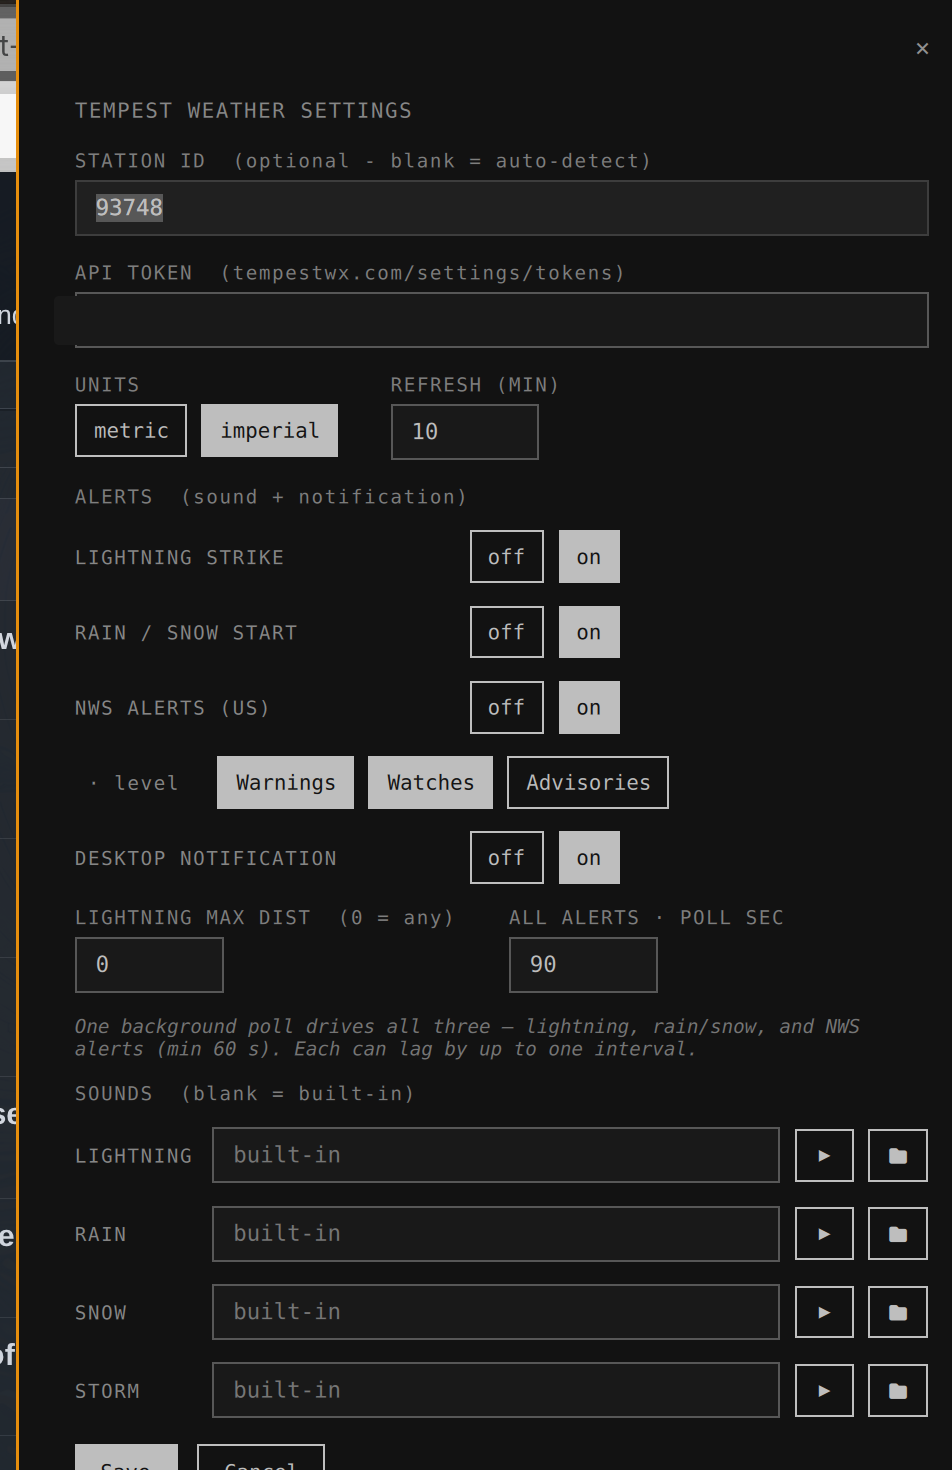
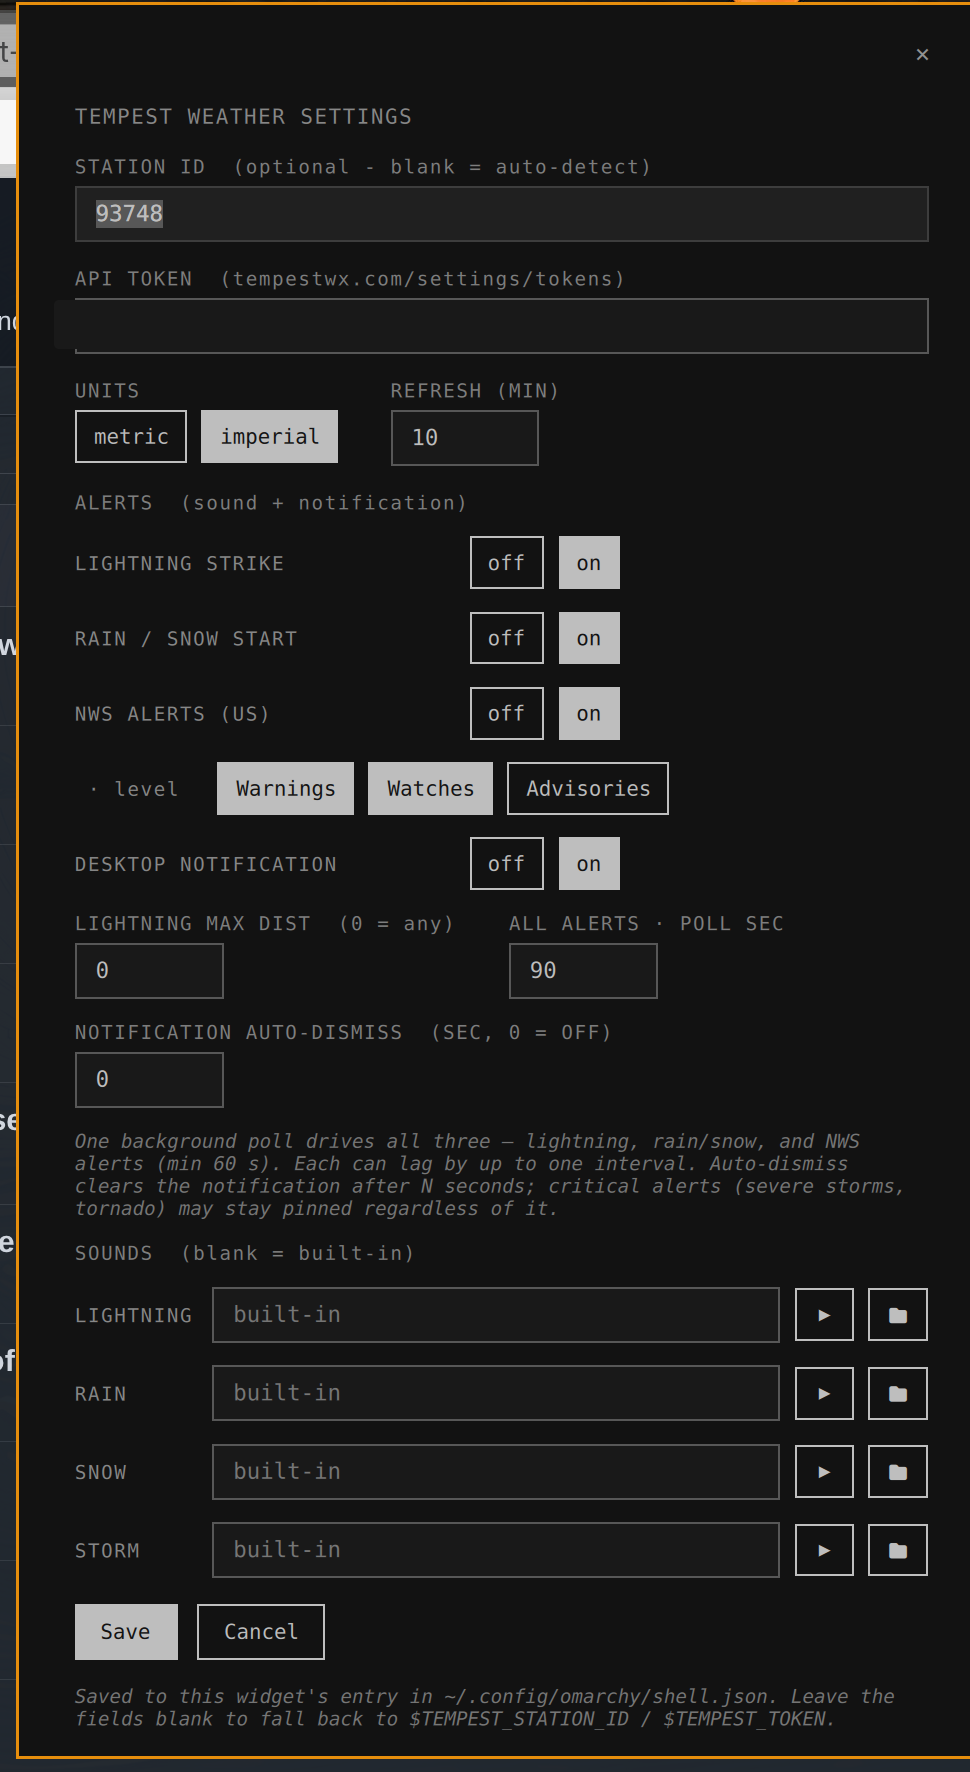
Alerts: add alertNotifyTimeout (auto-dismiss the notification)
New alertNotifyTimeout (seconds, 0 = notification-daemon default). When > 0,
notify() passes `-t <seconds*1000>` to omarchy-notification-send. Settings
form gains a "NOTIFICATION AUTO-DISMISS (SEC, 0 = OFF)" field under the poll
interval, dimmed when notifications are off.

Verified live: a `-u normal` notification with `-t 3000` cleared after ~3s; a
`-u critical` one (how lightning and severe NWS alerts fire) stayed pinned —
mako/swaync ignore expire timeouts for critical. Documented that caveat in the
form helper text, README, and the manifest schema label.

settings.png regenerated to the full card.

Claude-Session: https://claude.ai/code/session_01YGwtqj7er61H2QfdAnwE9A

diff --git a/Panel.qml b/Panel.qml
@@ -289,6 +289,7 @@ Panel {
   property string draftAlertPrecip: "off"
   property string draftAlertNotify: "on"
   property string draftAlertPoll: "90"
+  property string draftNotifyTimeout: "0"
   property string draftLightningSound: ""
   property string draftPrecipSound: ""
   property string draftSnowSound: ""
@@ -411,6 +412,7 @@ Panel {
     draftAlertPrecip = onOffSetting("alertPrecipStart", "off")
     draftAlertNotify = onOffSetting("alertNotify", "on")
     draftAlertPoll = String(setting("alertPollSeconds", "90") || "90")
+    draftNotifyTimeout = String(setting("alertNotifyTimeout", "0") || "0")
     draftLightningSound = String(setting("alertLightningSound", "") || "")
     draftPrecipSound = String(setting("alertPrecipSound", "") || "")
     draftSnowSound = String(setting("alertSnowSound", "") || "")
@@ -444,6 +446,8 @@ Panel {
     if (isNaN(maxDist) || maxDist < 0) maxDist = 0
     var poll = parseInt(draftAlertPoll, 10)
     if (isNaN(poll) || poll < 60) poll = 60
+    var notifyTimeout = parseInt(draftNotifyTimeout, 10)
+    if (isNaN(notifyTimeout) || notifyTimeout < 0) notifyTimeout = 0
     settingsSaveQueue = [
       ["stationId", draftStation.replace(/^\s+|\s+$/g, "")],
       ["token", draftToken.replace(/^\s+|\s+$/g, "")],
@@ -453,6 +457,7 @@ Panel {
       ["alertLightningMaxDistance", String(maxDist)],
       ["alertPrecipStart", draftAlertPrecip === "on" ? "on" : "off"],
       ["alertNotify", draftAlertNotify === "on" ? "on" : "off"],
+      ["alertNotifyTimeout", String(notifyTimeout)],
       ["alertPollSeconds", String(poll)],
       ["alertLightningSound", draftLightningSound.replace(/^\s+|\s+$/g, "")],
       ["alertPrecipSound", draftPrecipSound.replace(/^\s+|\s+$/g, "")],
@@ -1434,11 +1439,39 @@ Panel {
                 }
               }
 
+              Column {
+                spacing: Style.space(4)
+                opacity: root.draftAlertNotify === "on" ? 1 : 0.4
+                Text {
+                  text: "NOTIFICATION AUTO-DISMISS  (SEC, 0 = OFF)"
+                  color: root.bar ? Qt.darker(root.bar.foreground, 1.5) : "gray"
+                  font.family: root.bar ? root.bar.fontFamily : "monospace"
+                  font.pixelSize: Style.font.caption
+                  font.letterSpacing: 1
+                }
+                TextField {
+                  width: Style.space(80)
+                  enabled: !root.savingSettings && root.draftAlertNotify === "on"
+                  text: root.draftNotifyTimeout
+                  foreground: root.bar ? root.bar.foreground : "white"
+                  font.family: root.bar ? root.bar.fontFamily : "monospace"
+                  inputMethodHints: Qt.ImhDigitsOnly
+                  validator: IntValidator { bottom: 0; top: 86400 }
+                  onTextChanged: root.draftNotifyTimeout = text
+                  Keys.onPressed: function(event) {
+                    if (event.key === Qt.Key_Escape) { root.cancelEditingSettings(); event.accepted = true }
+                    else if (event.key === Qt.Key_Return || event.key === Qt.Key_Enter) { root.saveSettings(); event.accepted = true }
+                  }
+                }
+              }
+
               Text {
                 width: parent.width
                 wrapMode: Text.WordWrap
                 text: "One background poll drives all three — lightning, rain/snow, and NWS "
-                  + "alerts (min 60 s). Each can lag by up to one interval."
+                  + "alerts (min 60 s). Each can lag by up to one interval. Auto-dismiss "
+                  + "clears the notification after N seconds; critical alerts (severe "
+                  + "storms, tornado) may stay pinned regardless of it."
                 color: root.bar ? Qt.darker(root.bar.foreground, 1.6) : "gray"
                 font.family: root.bar ? root.bar.fontFamily : "monospace"
                 font.pixelSize: Style.font.caption

diff --git a/AlertService.qml b/AlertService.qml
@@ -77,6 +77,10 @@ Item {
   readonly property real alertLightningMaxDistance: parseFloat(String(cval("alertLightningMaxDistance", "0"))) || 0
   readonly property bool alertPrecipStart: String(cval("alertPrecipStart", "off")).toLowerCase() === "on"
   readonly property bool alertNotify: String(cval("alertNotify", "on")).toLowerCase() === "on"
+  // Seconds after which the notification self-dismisses; 0 = daemon default.
+  // Note: mako/swaync keep "critical" notifications sticky regardless, so this
+  // only reliably affects the lower-urgency (rain/watch/advisory) alerts.
+  readonly property int notifyTimeoutSec: Math.max(0, parseInt(String(cval("alertNotifyTimeout", "0")), 10) || 0)
   readonly property int pollSeconds: Math.max(60, parseInt(String(cval("alertPollSeconds", "90")), 10) || 90)
   readonly property string lightningSound: String(cval("alertLightningSound", "")).replace(/^\s+|\s+$/g, "")
   readonly property string precipSound: String(cval("alertPrecipSound", "")).replace(/^\s+|\s+$/g, "")
@@ -335,6 +339,7 @@ Item {
     if (!root.alertNotify) return
     var cmd = ["omarchy-notification-send", "-u", String(urgency || "normal")]
     if (glyph && glyph !== "") { cmd.push("-g"); cmd.push(String(glyph)) }
+    if (root.notifyTimeoutSec > 0) { cmd.push("-t"); cmd.push(String(root.notifyTimeoutSec * 1000)) }
     cmd.push(String(headline))
     if (body && body !== "") cmd.push(String(body))
     notifyQueue.push(cmd)

diff --git a/README.md b/README.md
@@ -155,10 +155,12 @@ sounds.
 
 All alerts are **off by default**. Turn them on in the settings form (the gear
 in the popup) — the ALERTS section has on/off switches for each, a lightning
-max-distance, a notification switch, the poll interval, and a SOUNDS block with
-a file-path field and a **test** button per alert type. Because alerts come
-from a poll, they lag by up to one interval (default 90 s, minimum 60 s); they
-are a heads-up, not a life-safety warning.
+max-distance, the NWS level, the poll interval, a notification switch with an
+optional auto-dismiss (`alertNotifyTimeout` seconds; 0 = your notification
+daemon's default — note mako/swaync keep *critical* alerts pinned regardless),
+and a SOUNDS block with a file-path field and a **test** button per alert type.
+Because alerts come from a poll, they lag by up to one interval (default 90 s,
+minimum 60 s); they are a heads-up, not a life-safety warning.
 
 The bar pill flags a live alert even with the popup closed: a warning triangle
 while an NWS alert is active, a lightning-bolt for 20 minutes after a strike.

diff --git a/CHANGELOG.md b/CHANGELOG.md
@@ -8,8 +8,9 @@
   (`pw-play`) and, by default, raises a desktop notification.
 - All alerts are off by default. New settings: `alertLightning`,
   `alertLightningMaxDistance`, `alertPrecipStart`, `alertNotify`,
-  `alertPollSeconds`, `alertLightningSound` / `alertPrecipSound` /
-  `alertSnowSound`. The settings form gains an ALERTS section: on/off switches,
+  `alertNotifyTimeout` (auto-dismiss the notification after N seconds; 0 =
+  daemon default; critical alerts stay pinned regardless), `alertPollSeconds`,
+  `alertLightningSound` / `alertPrecipSound` / `alertSnowSound`. The settings form gains an ALERTS section: on/off switches,
   max distance, poll interval, and a SOUNDS block with, per alert type, a path
   field, a **test** button, and a folder button that opens an in-panel file
   browser (folders + `.wav`/`.ogg`/`.oga`/`.flac`/`.opus` files, tap to

diff --git a/CLAUDE.md b/CLAUDE.md
@@ -80,7 +80,9 @@ refetch kicks off. The ALERTS section rows write `alertLightning`,
   show a bolt (`0xf0e7`) on the pill while `alertService.lightningActive`.
 - Poll → `Model.detectLightning` / `Model.detectPrecipStart` (pure, in
   `Model.js`) → `fireLightning` / `firePrecip` → `pw-play <sound>` +
-  `omarchy-notification-send`. De-dup: `lastLightningEpoch` (only a strike
+  `omarchy-notification-send` (with `-t <alertNotifyTimeout*1000>` when the
+  setting is >0; lightning/NWS-severe fire `-u critical` which mako/swaync
+  keep pinned regardless — verified). De-dup: `lastLightningEpoch` (only a strike
   newer than both it and `startedAtEpoch` fires) and `lastPrecipDay` (one
   precip-start alert per local day). State is in-memory; the `startedAtEpoch`
   gate is what stops a restart mid-storm replaying old strikes.
